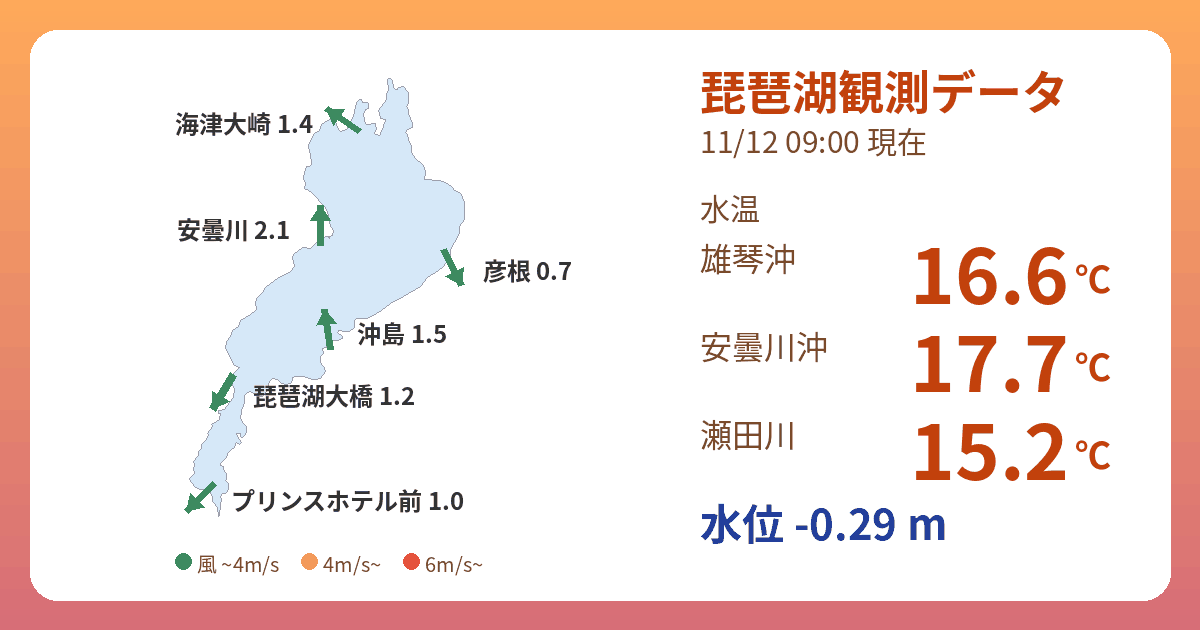
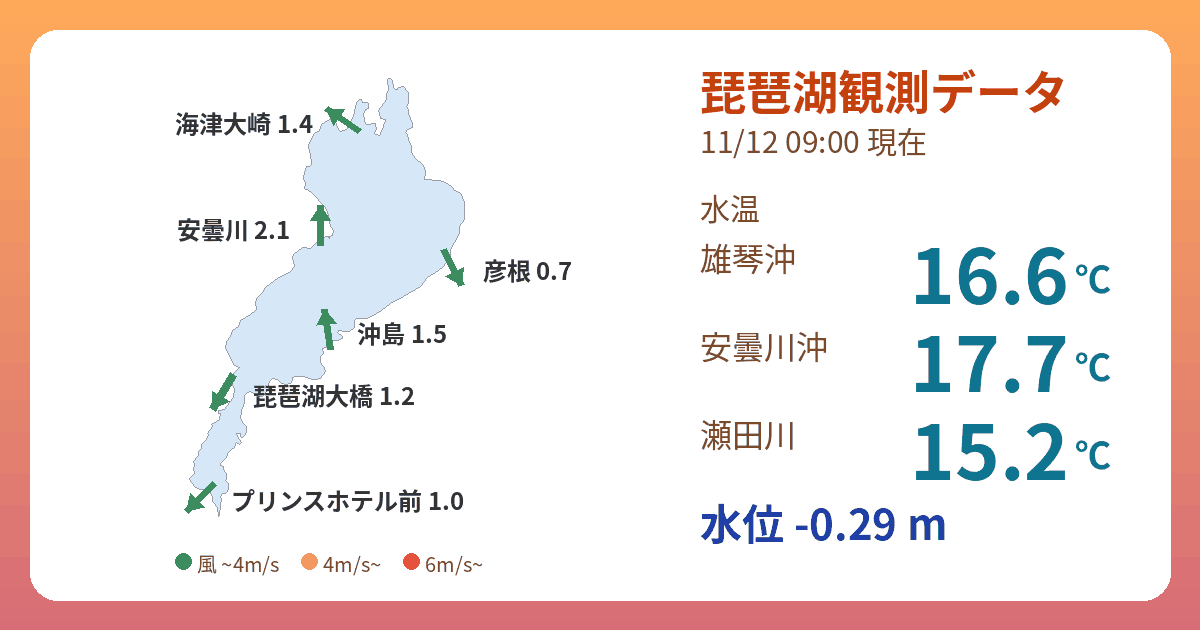
share card: cool color for water temp
Claude-Session: https://claude.ai/code/session_01TX6WTKnYULGizqPprBYqMx

diff --git a/tools/make_share.py b/tools/make_share.py
@@ -97,8 +97,8 @@ def main():
     y = 215
     for lab, t in temps:
         g.text((x0, y + 18), lab, font=font(32, False), fill="#7a4a2a")
-        g.text((x0 + 210, y), "%.1f" % t[1], font=font(76), fill="#c2410c")
-        g.text((x0 + 210 + g.textlength("%.1f" % t[1], font=font(76)) + 6, y + 36), "℃", font=font(36), fill="#c2410c")
+        g.text((x0 + 210, y), "%.1f" % t[1], font=font(76), fill="#0e7490")
+        g.text((x0 + 210 + g.textlength("%.1f" % t[1], font=font(76)) + 6, y + 36), "℃", font=font(36), fill="#0e7490")
         y += 88
     if lv:
         g.text((x0, y + 12), "水位 %+.2f m" % lv[1], font=font(42), fill="#1e40af")
